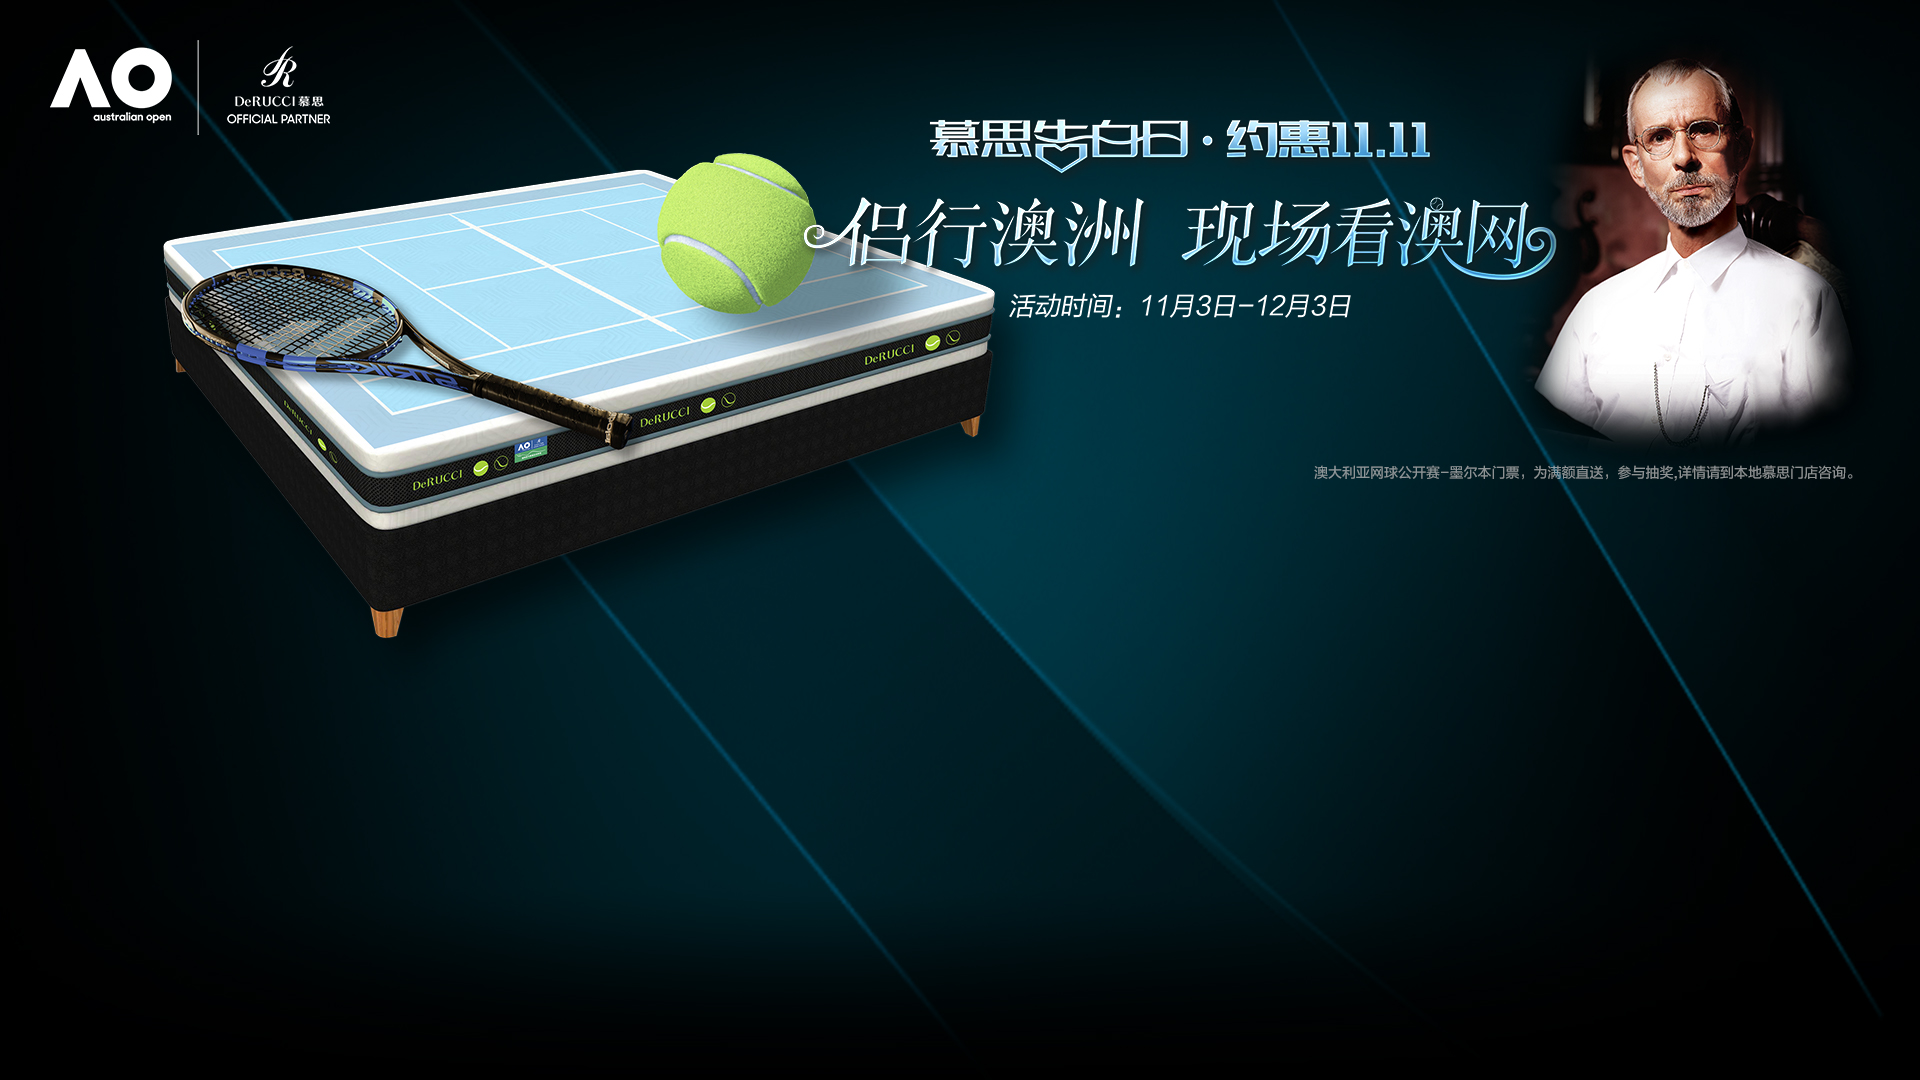
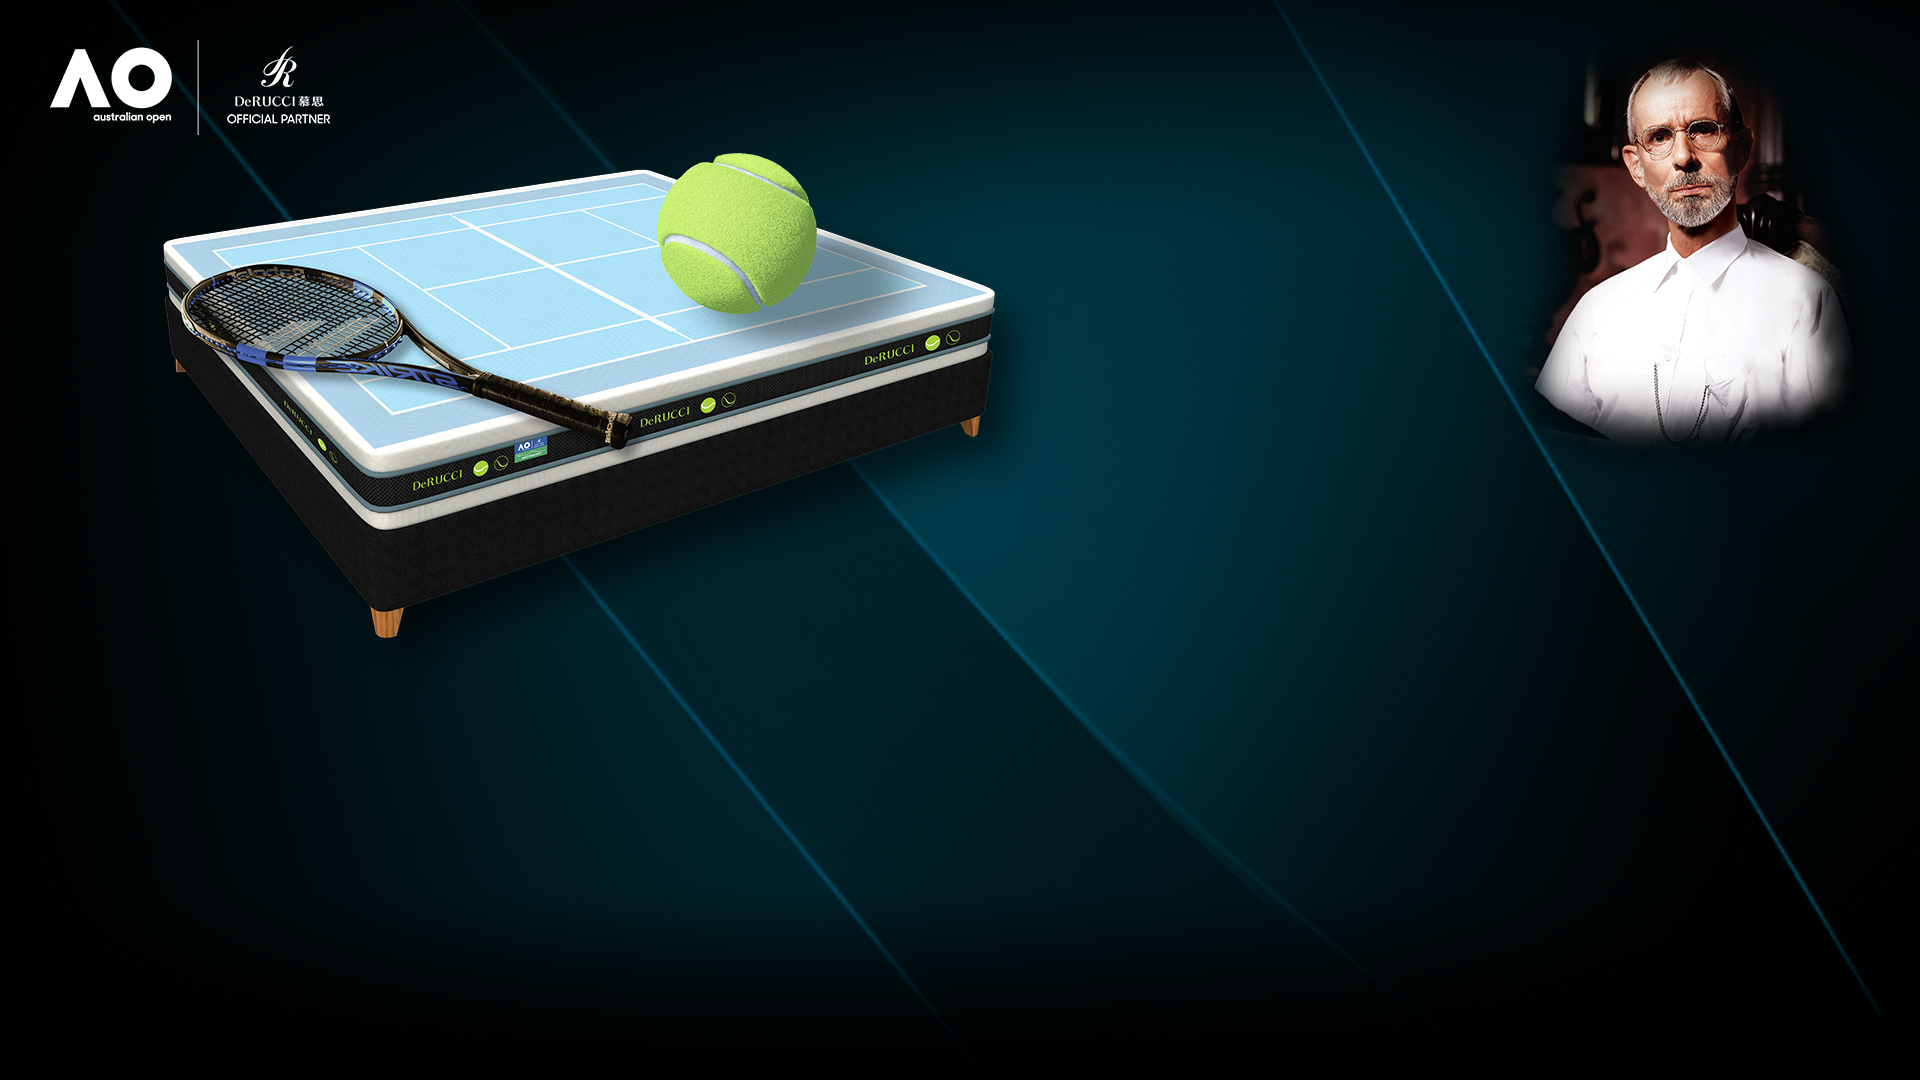
背景图片文字位置更改

diff --git a/src/sass/awardList-pc.scss b/src/sass/awardList-pc.scss
@@ -63,7 +63,7 @@
     }
     .bot{
       h2{
-        font-size: 42px;
+        font-size: 36px;
       }
     }
   }
@@ -75,6 +75,15 @@
     background: none;
     box-shadow: none;
     height: 500px;
+    .minBgText{
+      background: url(../images/minBgText.png) no-repeat;
+      background-size: 100% 100%;
+      width: 580px;
+      height: 154px;
+      position: absolute;
+      left: 44%;
+      top: 10%;
+    }
     .timeLine{
       display: flex;
       position: relative;
@@ -210,7 +219,17 @@
     flex: 1;
     max-height: 600px;
     min-height: 440px;
-    height: 440px;
+    height: 260px;
+    position: relative;
+    .rightBgText{
+      background: url(../images/rightBgText1.png) no-repeat;
+      background-size: 100% 100%;
+      width: 450px;
+      height: 14px;
+      position: absolute;
+      top: -26px;
+      left: -60px;
+    }
     h4{
       font-size: 32px;
       color: #fff;

diff --git a/src/pages/awardList-pc.js b/src/pages/awardList-pc.js
@@ -190,7 +190,6 @@ class AwardListPC extends Component {
     return (
       <ul ref="drawList_pc" className="drawList-pc" style={styleComponent.draw}>
         <li className="left" style={styleComponent.boxHeight}>
-          
           <div className="top">
             <h2>{
               Variable.dateCount(new Date().getDate())
@@ -203,6 +202,7 @@ class AwardListPC extends Component {
           </div> 
         </li>
         <li className="min">
+          <div className='minBgText'></div>
           <ul className="top timeLine">
             <li className='li-1'>
               <p>11月12日</p>
@@ -241,6 +241,7 @@ class AwardListPC extends Component {
         </li>
 
         <li className="right" style={styleComponent.boxHeight}>
+          <div className='rightBgText'></div>
           <h4>全国奖品池</h4>
           <ul>
             <div className='rowup'>
